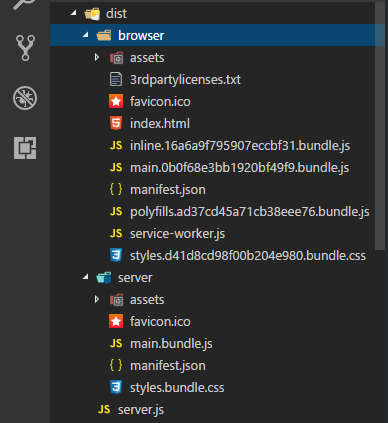
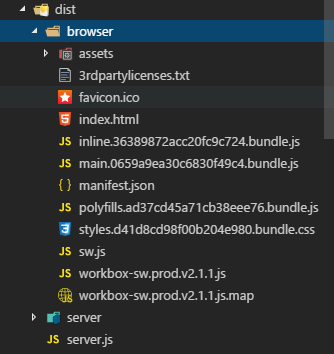
[ Set Up ] Generate Service Worker using Workbox and Update README.MD

diff --git a/src/index.html b/src/index.html
@@ -9,52 +9,54 @@
   <meta name="viewport" content="width=device-width, initial-scale=1">
   <meta name="mobile-web-app-capable" content="yes">
   <meta name="apple-mobile-web-app-capable" content="yes">
-  <meta name="msapplication-starturl" content="/browser/">
   <meta name="theme-color" content="#f48cb5">
 
   <link rel="manifest" href="/manifest.json">
 </head>
 <body>
+  <h1>Angular v5 SSR and PWA Template</h1>
   <pwa-template-root></pwa-template-root>
   <script>
     if ('serviceWorker' in navigator) {
-      // Your service-worker.js *must* be located at the top-level directory relative to your site.
-      // It won't be able to control pages unless it's located at the same level or higher than them.
-      // *Don't* register service worker file in, e.g., a scripts/ sub-directory!
-      // See https://github.com/slightlyoff/ServiceWorker/issues/468
-      navigator.serviceWorker.register('/service-worker.js').then(function(reg) {
-        console.log('SW Registered!', reg.scope);
-        // updatefound is fired if service-worker.js changes.
-        reg.onupdatefound = function() {
-          // The updatefound event implies that reg.installing is set; see
-          // https://slightlyoff.github.io/ServiceWorker/spec/service_worker/index.html#service-worker-container-updatefound-event
-          var installingWorker = reg.installing;
+      window.addEventListener('load', function() {
+        // Your service-worker.js *must* be located at the top-level directory relative to your site.
+        // It won't be able to control pages unless it's located at the same level or higher than them.
+        // *Don't* register service worker file in, e.g., a scripts/ sub-directory!
+        // See https://github.com/slightlyoff/ServiceWorker/issues/468
+        navigator.serviceWorker.register('/sw.js').then(function(reg) {
+          console.log('SW Registered!', reg.scope);
+          // updatefound is fired if service-worker.js changes.
+          reg.onupdatefound = function() {
+            // The updatefound event implies that reg.installing is set; see
+            // https://slightlyoff.github.io/ServiceWorker/spec/service_worker/index.html#service-worker-container-updatefound-event
+            var installingWorker = reg.installing;
 
-          installingWorker.onstatechange = function() {
-            switch (installingWorker.state) {
-              case 'installed':
-                if (navigator.serviceWorker.controller) {
-                  // At this point, the old content will have been purged and the fresh content will
-                  // have been added to the cache.
-                  // It's the perfect time to display a "New content is available; please refresh."
-                  // message in the page's interface.
-                  console.log('New or updated content is available.');
-                } else {
-                  // At this point, everything has been precached.
-                  // It's the perfect time to display a "Content is cached for offline use." message.
-                  console.log('Content is now available offline!');
-                }
-                break;
+            installingWorker.onstatechange = function() {
+              switch (installingWorker.state) {
+                case 'installed':
+                  if (navigator.serviceWorker.controller) {
+                    // At this point, the old content will have been purged and the fresh content will
+                    // have been added to the cache.
+                    // It's the perfect time to display a "New content is available; please refresh."
+                    // message in the page's interface.
+                    console.log('New or updated content is available.');
+                  } else {
+                    // At this point, everything has been precached.
+                    // It's the perfect time to display a "Content is cached for offline use." message.
+                    console.log('Content is now available offline!');
+                  }
+                  break;
 
-              case 'redundant':
-                console.error('The installing service worker became redundant.');
-                break;
-            }
+                case 'redundant':
+                  console.error('The installing service worker became redundant.');
+                  break;
+              }
+            };
           };
-        };
-      }).catch(function(e) {
-        console.error('Error during service worker registration:', e);
-      });
+        }).catch(function(e) {
+          console.error('Error during service worker registration:', e);
+        });
+      })
     }
   </script>
 </body>

diff --git a/workbox-cli-config.js b/workbox-cli-config.js
@@ -1,0 +1,10 @@
+module.exports = {
+  "globDirectory": "dist\\browser\\",
+  "globPatterns": [
+    "**/*.{txt,png,xml,ico,json,svg,html,js,css}"
+  ],
+  "swDest": "dist/browser/sw.js",
+  "globIgnores": [
+    "..\\..\\workbox-cli-config.js"
+  ]
+};

diff --git a/src/app/app.component.html b/src/app/app.component.html
@@ -1,2 +1,1 @@
-<h1>Angular v5 PWA & SSR Template</h1>
 <router-outlet></router-outlet>

diff --git a/README.md b/README.md
@@ -1,10 +1,14 @@
 # Angular v5 SSR and PWA template
 
+This project is generated using Angular CLI 1.5.0
+The Service worker is generated using workbox
+
 ## Prerequisites
 
 * node.js ( stable version )
 * @angular/cli@latest ( 1.5.0 )
 * @angular v5
+* workbox ( for service worker )
 
 ```
 "dependencies": {
@@ -12,9 +16,6 @@
   "@nguniversal/express-engine": "5.0.0-beta.5"
   "@nguniversal/module-map-ngfactory-loader": "5.0.0-beta.5"
   "ts-loader": "^3.1.1"
-},
-"devDependencies": {
-  "sw-precache-webpack-plugin": "^0.11.4"
 }
 ```
 
@@ -24,20 +25,21 @@
 * normal: `ng serve --aot`
 
 * server side rendered: `npm run build:universal`
-* generate service worker: `npm run pwa`
 * serving server side rendered: `npm run serve:universal`
 
 ![build](./docs/screenshots/build.png "This should be the output after the build process")
 
+After Running the audit. This should be the output.
+
+![build](./docs/screenshots/audit.png "This should be the output after the audit process")
+
 ```
 "scripts": {
   "...": "..."
-  "build:universal": "npm run build:client-and-server-bundles && npm run webpack:server",
+  "build:universal": "npm run build:client-and-server-bundles && npm run webpack:server && workbox generate:sw",
   "serve:universal": "node dist/server.js",
   "build:client-and-server-bundles": "ng build --prod --build-optimizer && ng build --prod --build-optimizer --app 1 --output-hashing=false",
-  "webpack:server": "webpack --config webpack.server.config.js --progress --colors",
-  "pwa": "sw-precache --root=dist/browser --config=precache-config.js",
-  "pwa:dev": "ng build --prod && sw-precache --root=dist --config=precache-config.js"
+  "webpack:server": "webpack --config webpack.server.config.js --progress --colors"
 }
 ```
 
